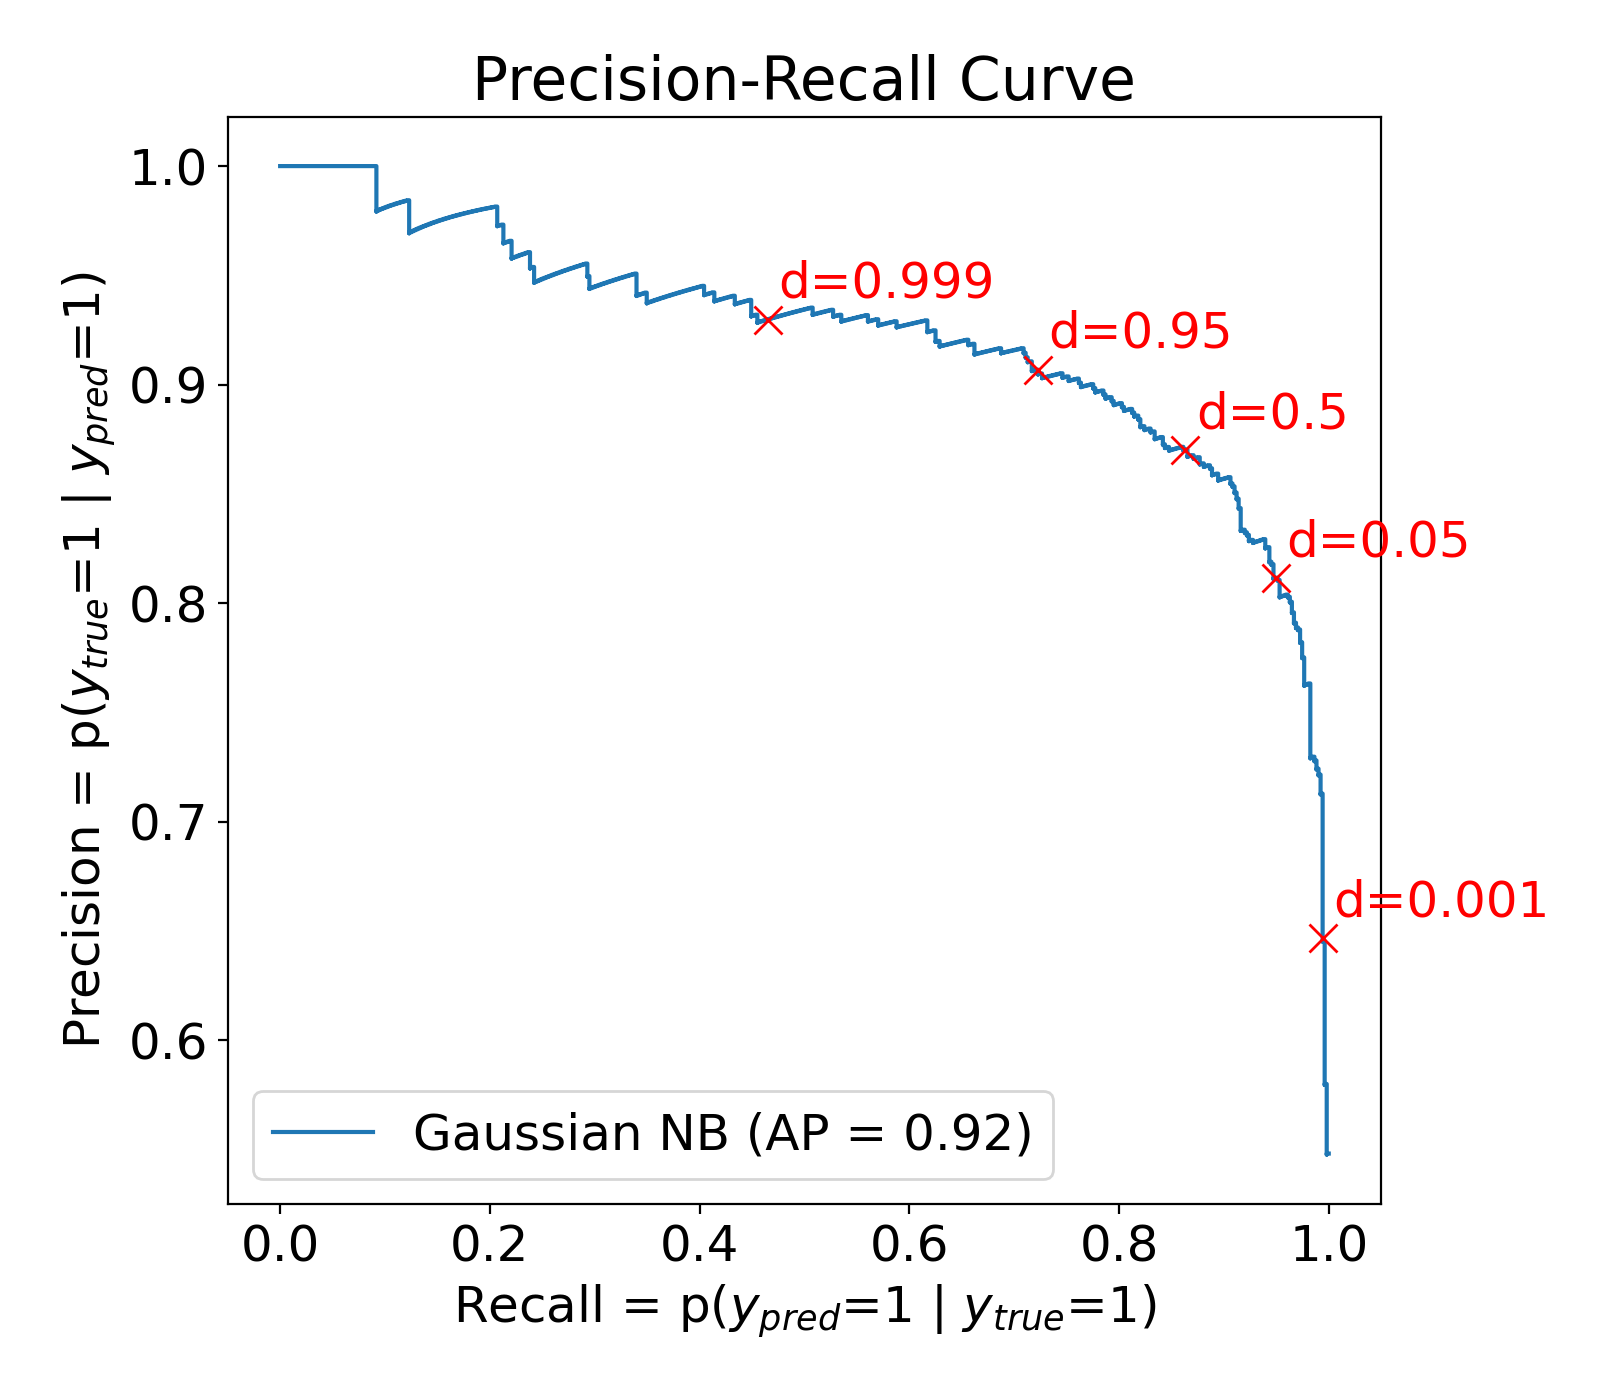
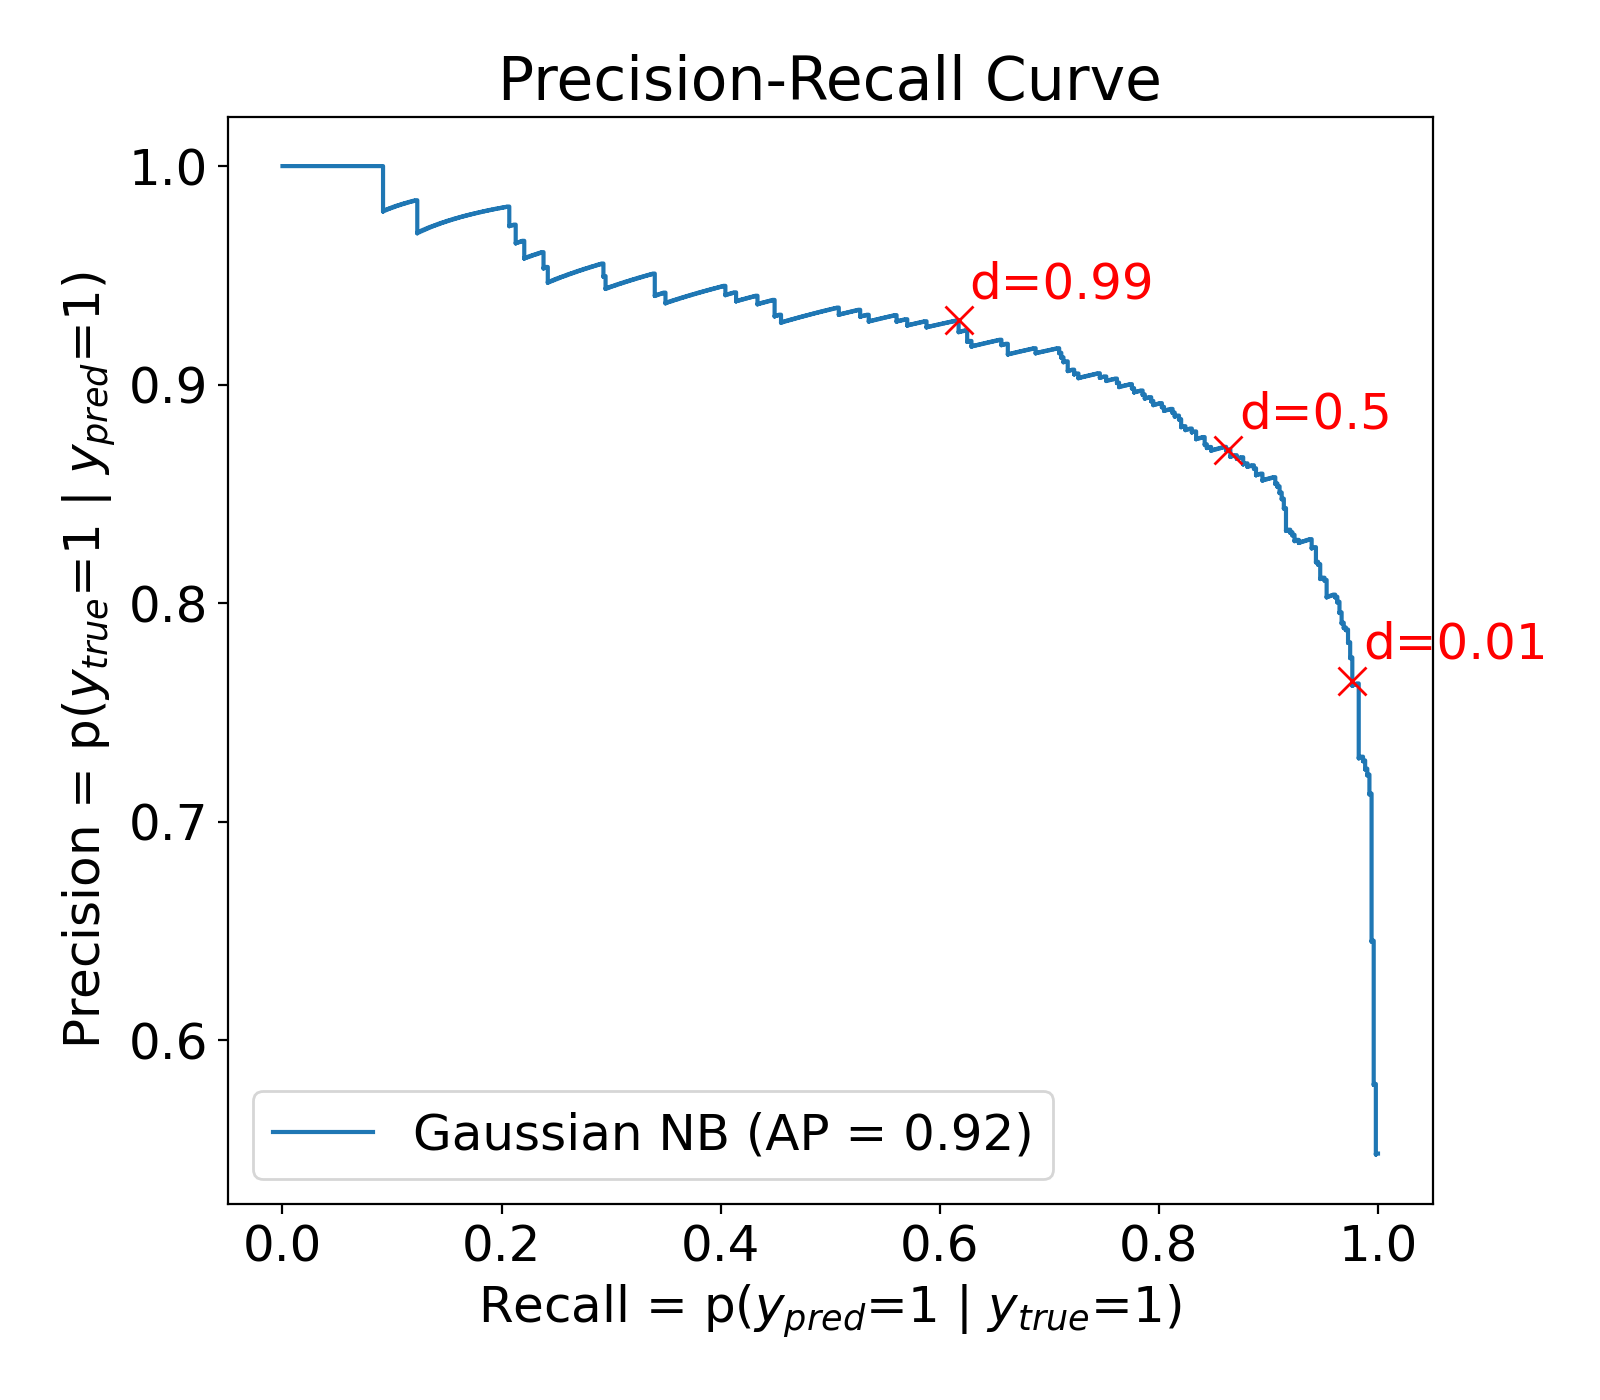
Update

diff --git a/machlearn/model_evaluation.py b/machlearn/model_evaluation.py
@@ -21,7 +21,7 @@ import matplotlib.pyplot as plt
 from sklearn import datasets
 from sklearn.metrics import confusion_matrix, roc_curve, roc_auc_score, average_precision_score, plot_precision_recall_curve
 from sklearn.model_selection import train_test_split
-import machlearn.naive_bayes as nb
+from .naive_bayes import naive_bayes_Gaussian
 
 
 __font_size__ = 18
@@ -29,7 +29,7 @@ __font_size__ = 18
 
 def plot_confusion_matrix(y_true,
                           y_pred,
-                          y_classes=['y=0', 'y=1'],
+                          y_classes=('y=0', 'y=1'),
                           figsize=(9, 9)):
     """
     This function plots the confusion matrix, along with key statistics, and returns accuracy.
@@ -151,9 +151,9 @@ def plot_ROC_curve(y_true,
     plt.title('ROC Curve')
 
     if plot_threshold:
-        for threshold in (0.001, 0.05, 0.5, 0.95, 0.999):
+        for threshold in (0.01, 0.50, 0.99):
             cm = confusion_matrix((y_true == y_pos_label).astype(bool),
-                                (y_pred_score >= threshold).astype(bool))
+                                  (y_pred_score >= threshold).astype(bool))
             TP = cm[1, 1]
             TN = cm[0, 0]
             FP = cm[0, 1]
@@ -161,7 +161,7 @@ def plot_ROC_curve(y_true,
             TPR = TP / (TP+FN)
             FPR = FP / (TN+FP)
             plt.plot([FPR], [TPR], marker='x', markersize=10,
-                    color="red", label=f"d={threshold}")
+                     color="red", label=f"d={threshold}")
             plt.annotate(text=f"d={threshold}", xy=(
                 FPR+0.01, TPR+0.01), color="red")
 
@@ -210,9 +210,9 @@ def plot_PR_curve(fitted_model,
     ax.set_title('Precision-Recall Curve')
 
     if plot_threshold:
-        for threshold in (0.001, 0.05, 0.5, 0.95, 0.999):
+        for threshold in (0.01, 0.50, 0.99):
             cm = confusion_matrix((y_true == y_pos_label).astype(bool),
-                                (y_pred_score >= threshold).astype(bool))
+                                  (y_pred_score >= threshold).astype(bool))
             TP = cm[1, 1]
             TN = cm[0, 0]
             FP = cm[0, 1]
@@ -222,7 +222,7 @@ def plot_PR_curve(fitted_model,
             precision = TP / (TP+FP)
             recall = TP / (TP+FN)
             plt.plot([recall], [precision], marker='x', markersize=10,
-                    color="red", label=f"d={threshold}")
+                     color="red", label=f"d={threshold}")
             plt.annotate(text=f"d={threshold}", xy=(
                 recall+0.01, precision+0.01), color="red")
 
@@ -274,7 +274,7 @@ def demo():
         n_samples=5000, n_features=30, n_classes=2, class_sep=0.8, random_state=123)
     X_train, X_test, y_train, y_test = train_test_split(
         X, y, test_size=0.20, random_state=123)
-    model = nb.naive_bayes_Gaussian().fit(X_train, y_train)
+    model = naive_bayes_Gaussian().fit(X_train, y_train)
     y_pred_score = model.predict_proba(X_test)
     y_pred = model.predict(X_test)
     accuracy = plot_confusion_matrix(y_true=y_test, y_pred=y_pred)

diff --git a/machlearn/naive_bayes.py b/machlearn/naive_bayes.py
@@ -14,7 +14,6 @@
 __all__ = ["naive_bayes_Bernoulli", "naive_bayes_multinomial",
            "naive_bayes_Gaussian", "demo"]
 
-import machlearn.model_evaluation as me
 from sklearn.naive_bayes import BernoulliNB, MultinomialNB, GaussianNB
 
 from sklearn.pipeline import Pipeline
@@ -111,10 +110,12 @@ def demo():
     # model evaluation
     y_pred = classifier.predict(X_test)
     y_score = classifier.predict_proba(X_test)
-    accuracy = me.plot_confusion_matrix(y_true=y_test, y_pred=y_pred, y_classes=[
-        'Ham (y=0)', 'Spam (y=1)'])
-    me.plot_ROC_and_PR_curves(fitted_model=classifier, X=X_test,
-                              y_true=y_test, y_pred_score=y_score[:, 1], y_pos_label='spam', model_name='Multinomial NB')
+
+    from .model_evaluation import plot_confusion_matrix, plot_ROC_and_PR_curves
+    accuracy = plot_confusion_matrix(y_true=y_test, y_pred=y_pred, y_classes=(
+        'Ham (y=0)', 'Spam (y=1)'))
+    plot_ROC_and_PR_curves(fitted_model=classifier, X=X_test,
+                           y_true=y_test, y_pred_score=y_score[:, 1], y_pos_label='spam', model_name='Multinomial NB')
     # application example
     custom_message = "URGENT! We are trying to contact U. Todays draw shows that you have won a 2000 prize GUARANTEED. Call 090 5809 4507 from a landline. Claim 3030. Valid 12hrs only."
     custom_results = classifier.predict([custom_message])[0]

diff --git a/machlearn/__about__.py b/machlearn/__about__.py
@@ -11,4 +11,4 @@
 # limitations under the License.
 
  
-__version__ = "0.0.27"
+__version__ = "0.0.29"
